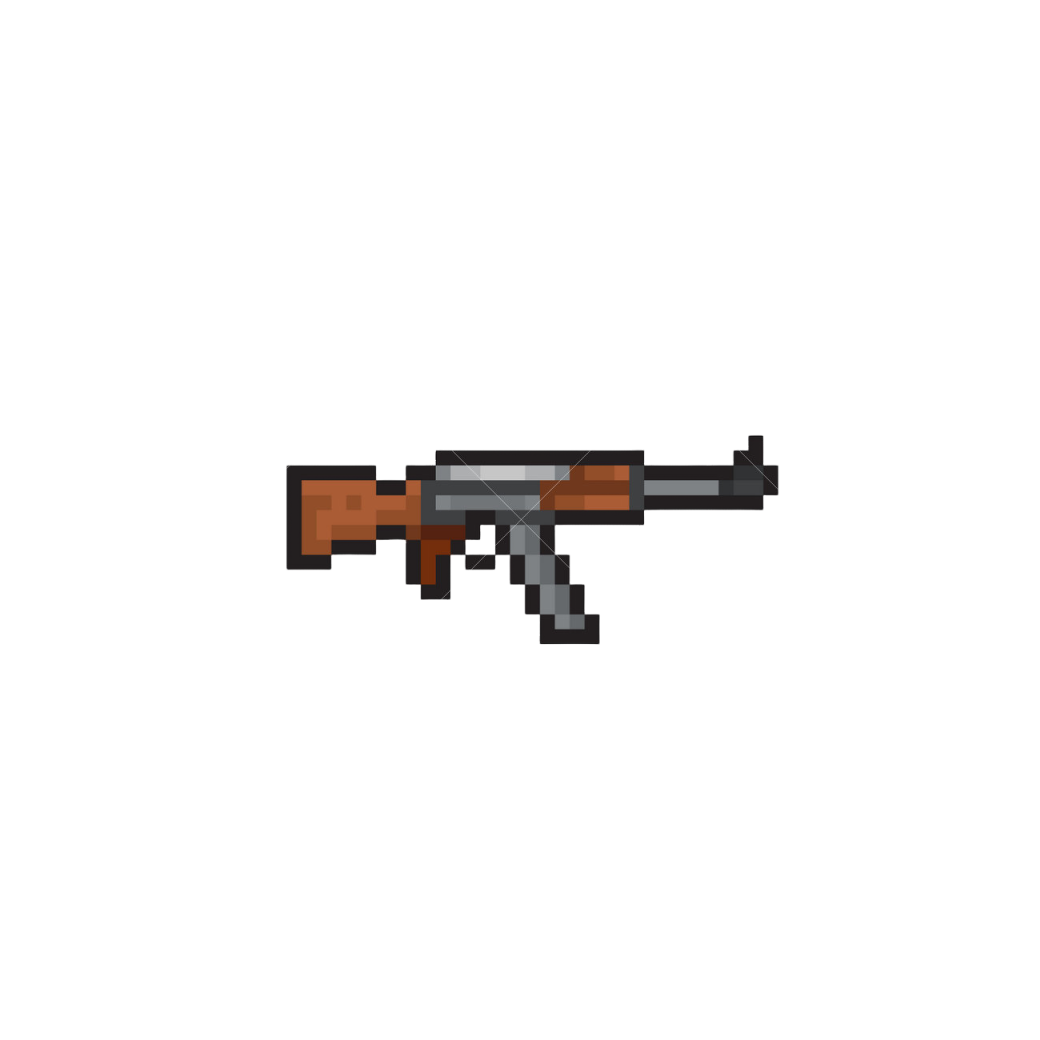
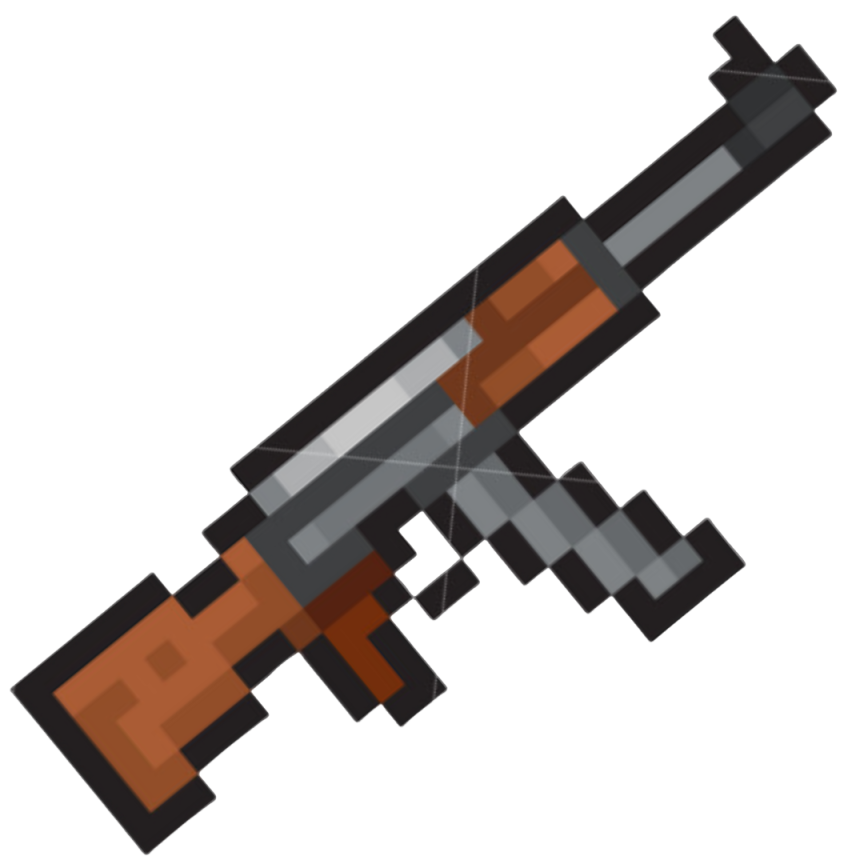
update | adição dos ícones na loja

Changed region(s): [[0.0, 0.0, 0.9688, 1.0]]

diff --git a/src/ui/Shop.py b/src/ui/Shop.py
@@ -42,14 +42,14 @@ SHOP_ITEMS = [
     {
         "id":    "shotgun",
         "name":  "Escopeta",
-        "desc":  "Dano alto de perto, 6 balas por disparo",
+        "desc":  "Alto dano | Cadência baixa",
         "cost":  100,
         "color": (200, 80, 80),
     },
     {
         "id":    "machinegun",
         "name":  "Metralhadora",
-        "desc":  "Alta cadência, mata com 2 balas",
+        "desc":  "Dano médio | Cadência alta",
         "cost":  130,
         "color": (80, 200, 255),
     }
@@ -58,13 +58,23 @@ SHOP_ITEMS = [
 WEAPON_IDS = {"shotgun", "machinegun"}
 ITEM_INDEX = {item["id"]: idx for idx, item in enumerate(SHOP_ITEMS)}
 
+ICON_FILE_BY_ID = {
+    "health":     "health-life",
+    "ammo":       "ammo",
+    "speed":      "speed",
+    "damage":     "damage",
+    "extra_life": "extra-life",
+    "shotgun":    "shotgun",
+    "machinegun": "machinegun",
+}
+
 _GAP     = 16
 _MARGIN  = 40
-_ITEM_H  = 110
+_ITEM_H  = 150
 _ITEMS_Y = 130
 _ROW_GAP = 18
 _SECTION_GAP = 14
-_ICON_SIZE = 75
+_ICON_SIZE = 50
 
 
 class Shop:
@@ -74,7 +84,7 @@ class Shop:
         self.selected        = 0
         self.message         = ""
         self.message_timer   = 0
-        self.weapon_icons    = {}
+        self.item_icons       = {}
 
         try:
             self.font_title = pygame.font.SysFont("arial", 32, bold=True)
@@ -89,16 +99,16 @@ class Shop:
             self.font_coins = pygame.font.Font(None, 24)
             self.font_hint  = pygame.font.Font(None, 16)
 
-        for weapon_id in WEAPON_IDS:
-            icon = self._load_weapon_icon(weapon_id)
+        for item_id, file_base in ICON_FILE_BY_ID.items():
+            icon = self._load_item_icon(file_base)
             if icon is not None:
-                self.weapon_icons[weapon_id] = icon
+                self.item_icons[item_id] = icon
 
-    def _load_weapon_icon(self, weapon_id: str):
+    def _load_item_icon(self, file_base: str):
         candidates = [
-            os.path.join("src", "utilz", "img", f"{weapon_id}-icon.png"),
-            os.path.join("src", "ui", "img", f"{weapon_id}-icon.png"),
-            os.path.join("res", f"{weapon_id}_icon.png"),
+            os.path.join("src", "utilz", "img", f"{file_base}-icon.png"),
+            os.path.join("src", "ui", "img", f"{file_base}-icon.png"),
+            os.path.join("res", f"{file_base}_icon.png"),
         ]
         for path in candidates:
             if os.path.exists(path):
@@ -213,12 +223,12 @@ class Shop:
                 pygame.draw.rect(surf, item["color"],
                     pygame.Rect(ix + 8, iy + 8, item_w - 16, 5), border_radius=3)
 
-                icon = self.weapon_icons.get(item["id"]) if item["id"] in WEAPON_IDS else None
+                icon = self.item_icons.get(item["id"])
                 text_top = iy + 22
                 if icon is not None:
                     icon_rect = icon.get_rect()
                     icon_rect.centerx = ix + item_w // 2
-                    icon_rect.top = iy + 0
+                    icon_rect.top = iy + 17
                     surf.blit(icon, icon_rect)
                     text_top = icon_rect.bottom + 6
 

diff --git a/src/entities/Player.py b/src/entities/Player.py
@@ -53,7 +53,7 @@ class Player:
     # ── conveniência para speed ────────────────────────────────
     @property
     def move_speed(self):
-        return PLAYER_SPEED * (1.2 if self.speed_upgraded else 1.0)
+        return PLAYER_SPEED * (1.2 if self.speed_upgraded else 5.0)
     
     def unlock_weapon(self, weapon_id: str, equip: bool = True) -> bool:
         if weapon_id in self.unlocked_weapons:
